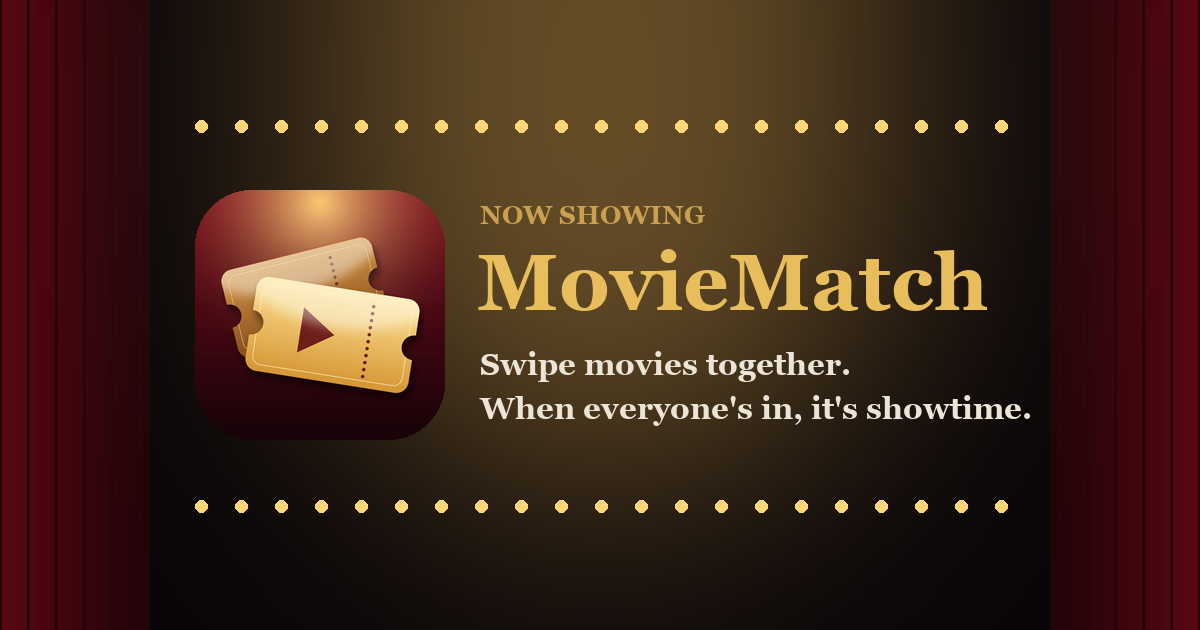
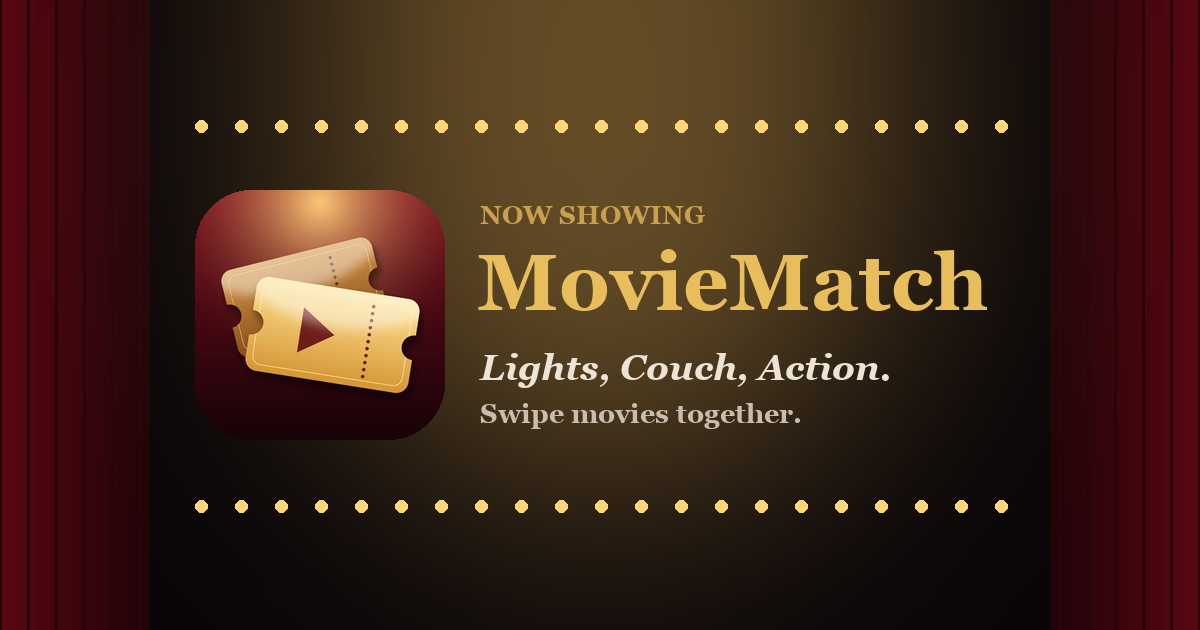
Slogan: Lights, Couch, Action

Changed region(s): [[0.4008, 0.5429, 0.8633, 0.6937]]

diff --git a/index.html b/index.html
@@ -3,13 +3,13 @@
 <head>
 <meta charset="utf-8">
 <meta name="viewport" content="width=device-width, initial-scale=1, viewport-fit=cover">
-<title>MovieMatch: pick tonight's movie together</title>
-<meta name="description" content="Swipe through your Plex library with friends. When everyone's in, it's showtime.">
+<title>MovieMatch · Lights, Couch, Action</title>
+<meta name="description" content="Lights, Couch, Action. Swipe your Plex or Jellyfin library together, and when everyone's in, it's showtime.">
 <!-- Safari shows an "Open / Get" App Store banner when this is filled in (build.sh does it). -->
 <meta property="og:type" content="website">
 <meta property="og:site_name" content="MovieMatch">
-<meta property="og:title" content="MovieMatch: pick tonight's movie together">
-<meta property="og:description" content="Swipe through your Plex library with friends. When everyone's in, it's showtime.">
+<meta property="og:title" content="MovieMatch · Lights, Couch, Action">
+<meta property="og:description" content="Lights, Couch, Action. Swipe your Plex or Jellyfin library together, and when everyone's in, it's showtime.">
 <meta property="og:url" content="https://moviematch.kportal.net/">
 <meta property="og:image" content="https://moviematch.kportal.net/og.png">
 <meta property="og:image:width" content="1200">
@@ -26,6 +26,7 @@
   <div class="marquee">
     <div class="kicker">NOW SHOWING · MOVIE NIGHT</div>
     <h1>MovieMatch</h1>
+    <p class="slogan">Lights, Couch, Action</p>
   </div>
   <p class="lead">Everyone swipes the same lineup from your Plex or Jellyfin library. When the whole row says <strong>I'm in</strong>, you've found tonight's film.</p>
   <span class="btn soon" role="note">Coming soon to the App Store</span>
@@ -35,6 +36,6 @@
     <li>Swipe together. A match is a movie everyone said yes to.</li>
   </ol>
 </main>
-<footer>MovieMatch · works with your own Plex or Jellyfin server<br><a href="privacy/">Privacy</a><a href="support/">Support</a></footer>
+<footer>MovieMatch · Lights, Couch, Action<br>works with your own Plex or Jellyfin server<br><a href="privacy/">Privacy</a><a href="support/">Support</a></footer>
 </body>
 </html>

diff --git a/join/index.html b/join/index.html
@@ -4,12 +4,12 @@
 <meta charset="utf-8">
 <meta name="viewport" content="width=device-width, initial-scale=1, viewport-fit=cover">
 <title>You're invited to a MovieMatch screening</title>
-<meta name="description" content="Join the screening and swipe movies together. When everyone's in, it's showtime.">
+<meta name="description" content="Lights, Couch, Action. Join the screening and swipe movies together. When everyone's in, it's showtime.">
 <!-- iMessage builds the link bubble from these tags. -->
 <meta property="og:type" content="website">
 <meta property="og:site_name" content="MovieMatch">
 <meta property="og:title" content="You're invited to movie night 🎟">
-<meta property="og:description" content="Join my MovieMatch screening. Swipe together, and when everyone's in, it's showtime.">
+<meta property="og:description" content="Lights, Couch, Action. Join my MovieMatch screening and swipe together. When everyone's in, it's showtime.">
 <meta property="og:image" content="https://moviematch.kportal.net/og.png">
 <meta property="og:image:width" content="1200">
 <meta property="og:image:height" content="630">
@@ -31,7 +31,7 @@
   <a class="btn primary" id="open" href="moviematch://">Open in MovieMatch</a>
   <span class="btn soon" role="note">Coming soon to the App Store</span>
 </main>
-<footer>MovieMatch · works with your own Plex or Jellyfin server<br><a href="../privacy/">Privacy</a><a href="../support/">Support</a></footer>
+<footer>MovieMatch · Lights, Couch, Action<br>works with your own Plex or Jellyfin server<br><a href="../privacy/">Privacy</a><a href="../support/">Support</a></footer>
 <script>
   // /join/ABCD (or /join/?code=ABCD): show the code and point the button at the app.
   (function () {

diff --git a/support/index.html b/support/index.html
@@ -43,6 +43,6 @@
   <p>Email <a href="mailto:universe@kportal.net?subject=MovieMatch%20support">universe@kportal.net</a> and describe what happened, including your iPhone model and iOS version. Please don't include your server address, password or token.</p>
   <a class="btn primary" style="text-align:center" href="mailto:universe@kportal.net?subject=MovieMatch%20support">Email support</a>
 </main>
-<footer><a href="../">Home</a><a href="../privacy/">Privacy</a></footer>
+<footer>MovieMatch · Lights, Couch, Action<br><a href="../">Home</a><a href="../privacy/">Privacy</a></footer>
 </body>
 </html>

diff --git a/privacy/index.html b/privacy/index.html
@@ -49,6 +49,6 @@
   <h2>Contact</h2>
   <p>Questions about privacy? Email <a href="mailto:universe@kportal.net?subject=MovieMatch%20privacy">universe@kportal.net</a>, or see <a href="../support/">Support</a>.</p>
 </main>
-<footer><a href="../">Home</a><a href="../support/">Support</a></footer>
+<footer>MovieMatch · Lights, Couch, Action<br><a href="../">Home</a><a href="../support/">Support</a></footer>
 </body>
 </html>

diff --git a/style.css b/style.css
@@ -43,3 +43,4 @@ main.doc summary{cursor:pointer;font-weight:650;color:var(--cream)}
 nav.top{position:relative;z-index:1;margin:0 0 28px;font-size:15px}
 nav.top a{color:var(--gold);text-decoration:none}
 footer a{color:#b9ae9b;margin:0 8px}
+.slogan{font:italic 600 clamp(18px,4.6vw,22px)/1.2 Georgia,"Times New Roman",serif;color:var(--cream);letter-spacing:.02em;margin:10px 0 2px;opacity:.92}
